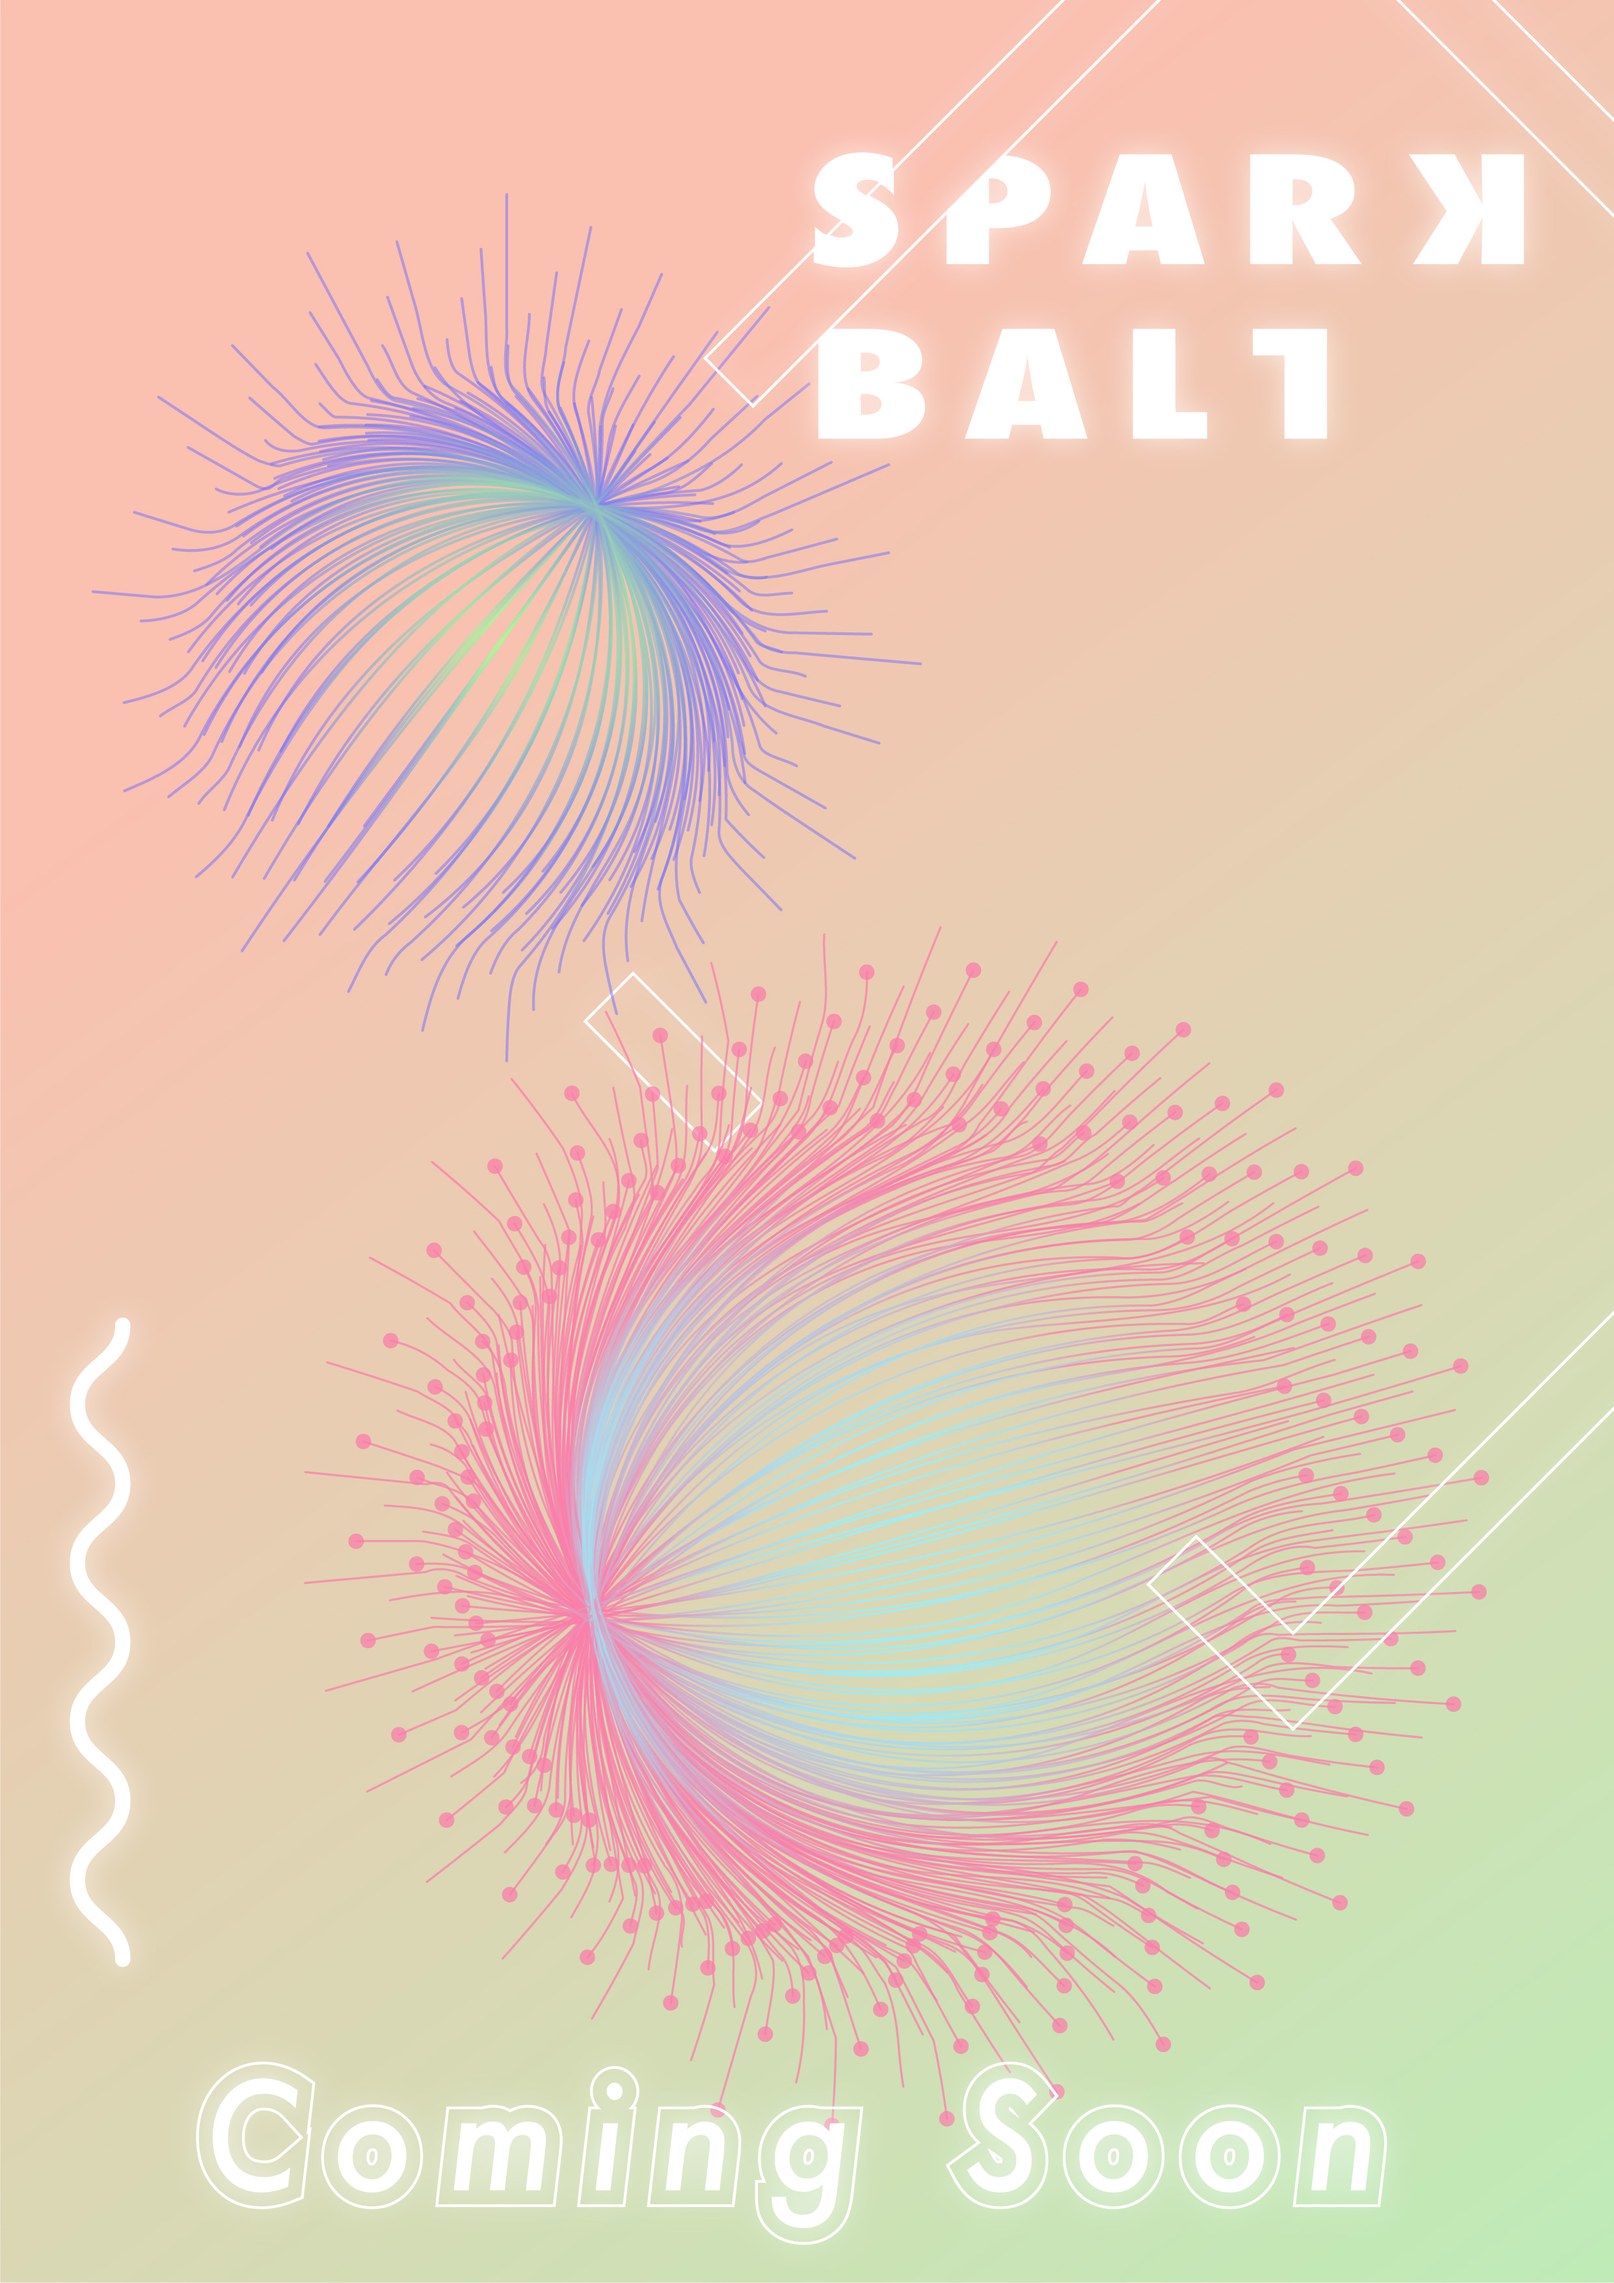
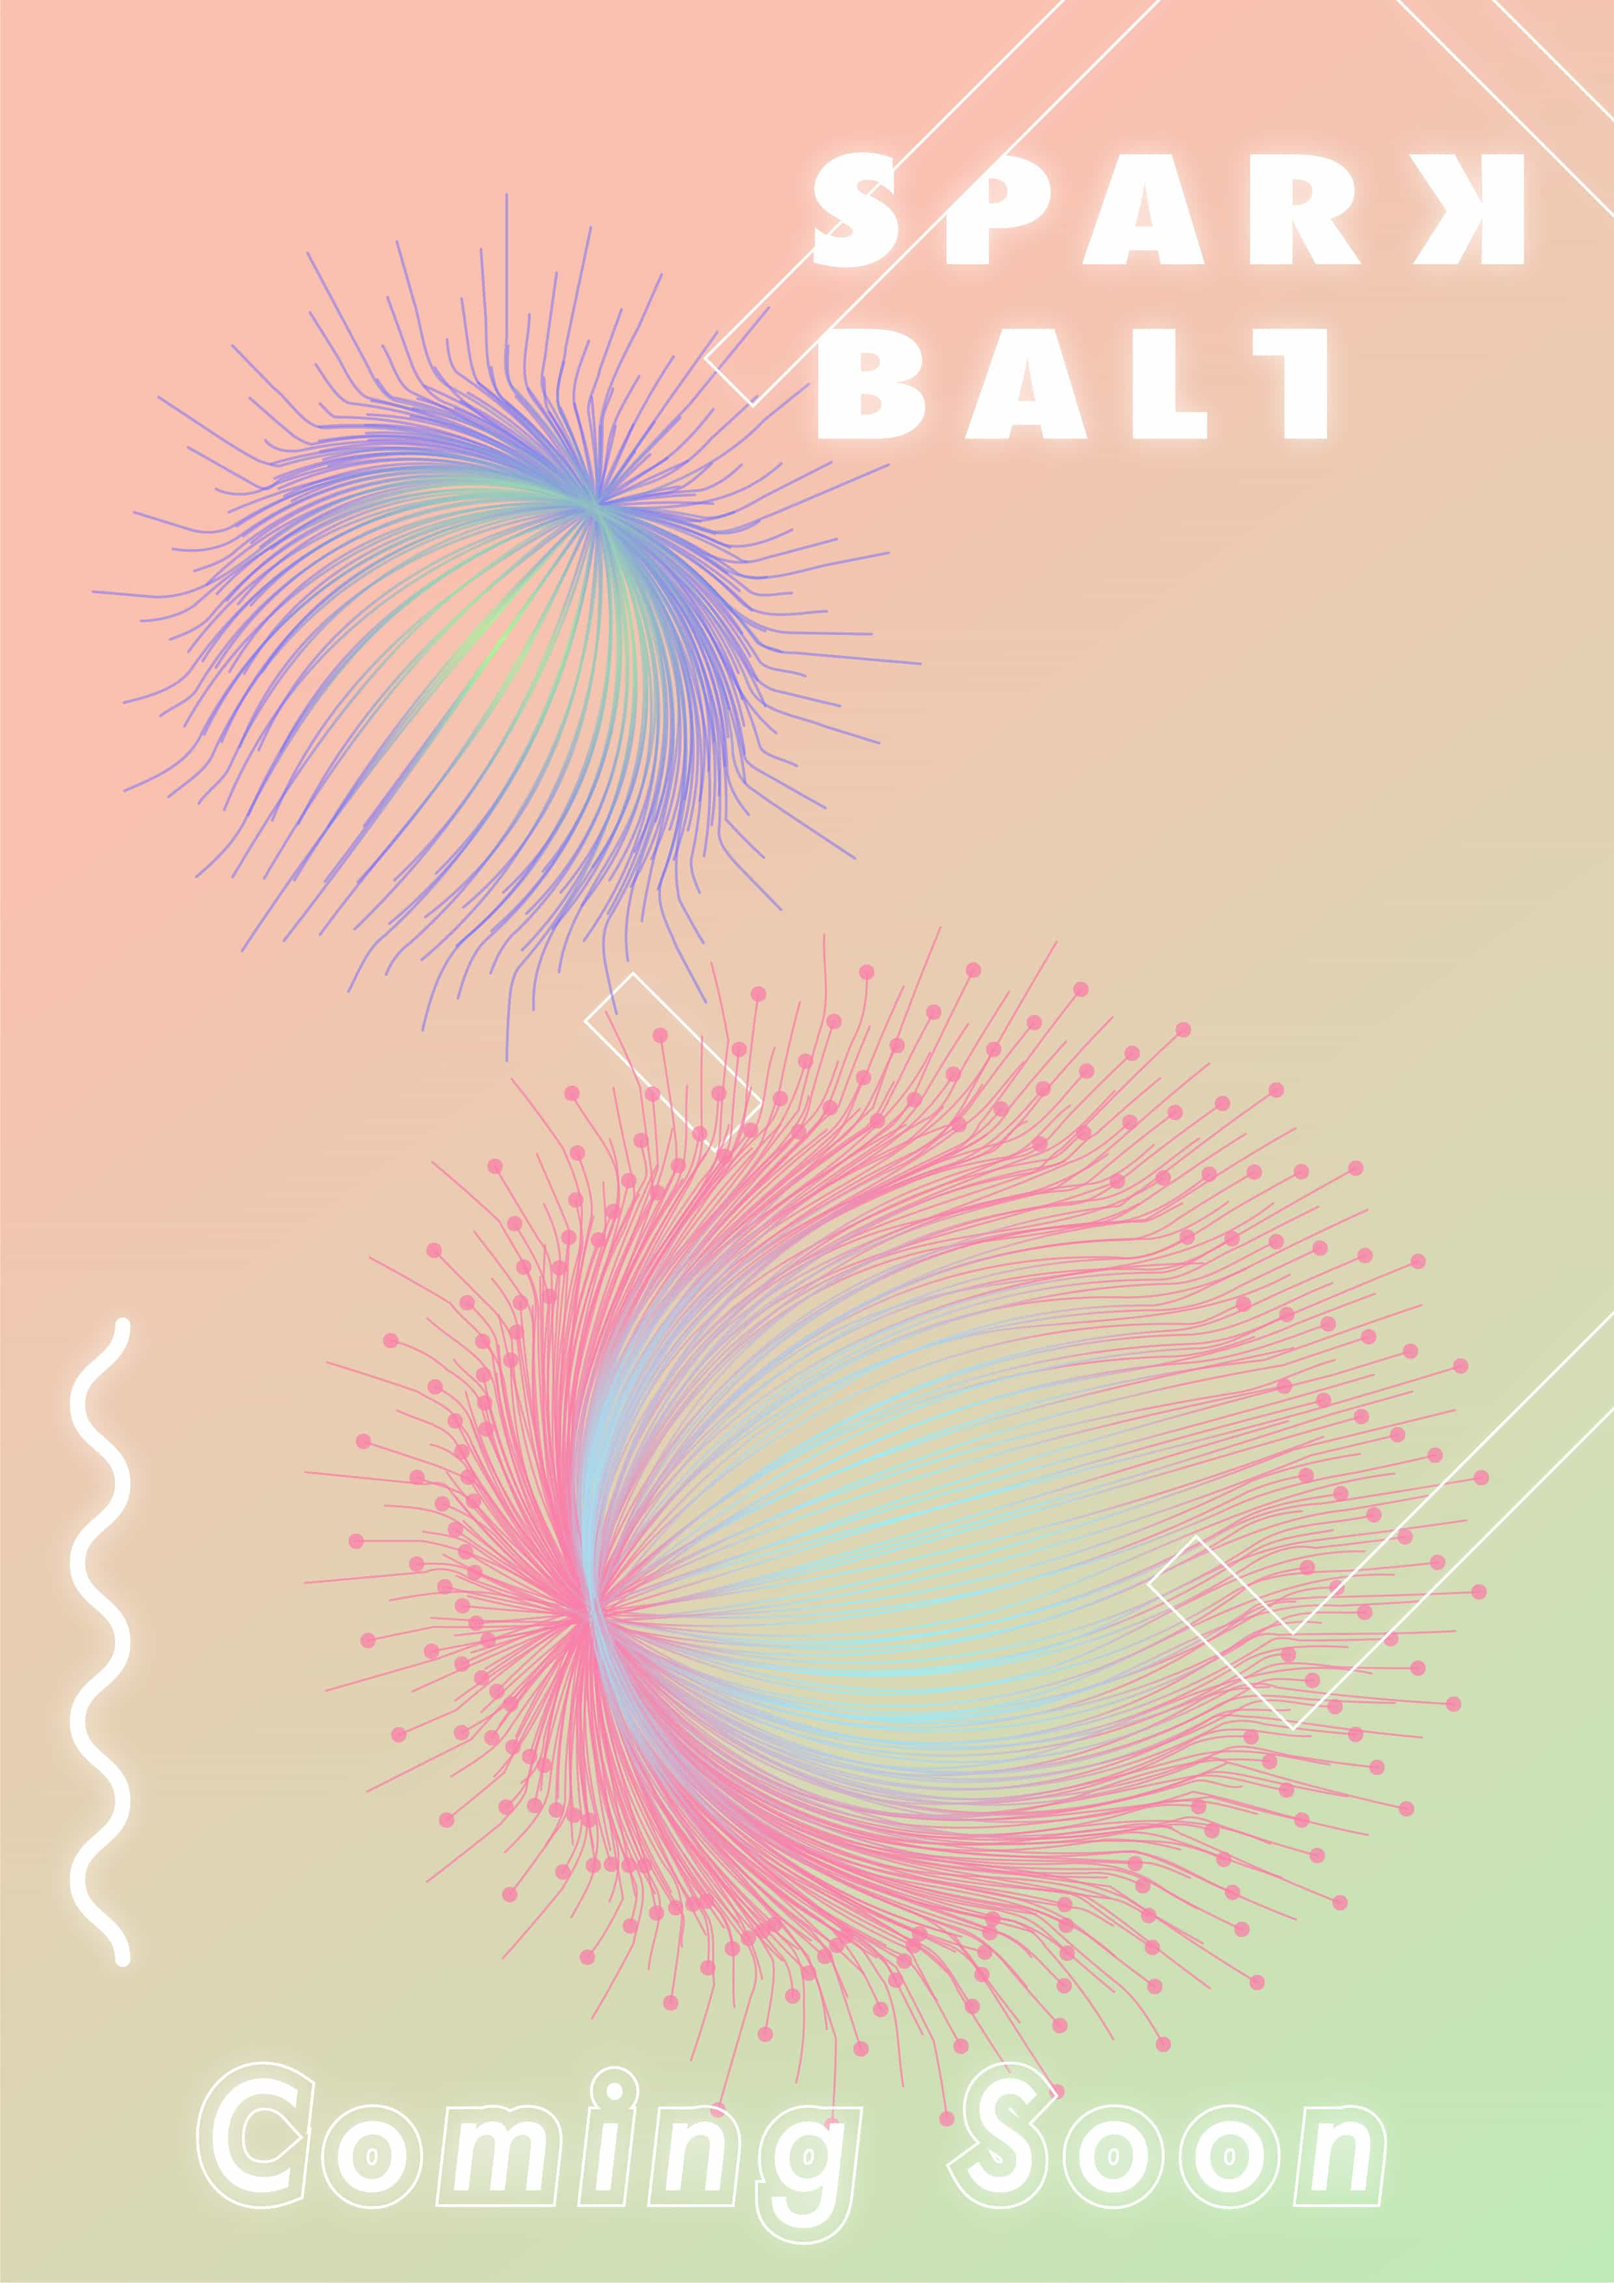
圖片大小壓縮
直接更新github資料夾中圖片
複製更改css,html連夾檔名

diff --git a/index.html b/index.html
@@ -358,28 +358,28 @@
                         企業識別與商標設計
                     </div>
                     <a href="https://www.behance.net/gallery/114881669/_" target="_blank" class="work">
-                        <img src="pic/graphic/vi_01.png" alt="企業識別-茶蔀">
+                        <img src="pic/graphic/vi_01.jpg" alt="企業識別-茶蔀">
                     </a>
                     <a href="https://www.behance.net/gallery/117584863/VI-Taipei-Childrens-Amusement-Park" target="_blank" class="work">
                          <img src="pic/graphic/vi_03.png" alt="企業識別-兒童新樂園">
                     </a>
                     <a href="https://www.behance.net/gallery/116743795/__-Do-Book" target="_blank" class="work">
-                        <img src="pic/graphic/vi_02.jpeg" alt="企業識別-讀步">
+                        <img src="pic/graphic/vi_02.jpg" alt="企業識別-讀步">
                     </a>
                     <a href="https://www.behance.net/gallery/116799987/LOGO__RABBit" target="_blank" class="work">
-                        <img src="pic/graphic/vi_04.png" alt="企業識別-兔子糖果屋">
+                        <img src="pic/graphic/vi_04.jpg" alt="企業識別-兔子糖果屋">
                     </a>
                     <a href="https://www.behance.net/gallery/116466225/LOGO_design" target="_blank" class="work">
-                        <img src="pic/graphic/vi_05.png" alt="企業識別-design">
+                        <img src="pic/graphic/vi_05.jpg" alt="企業識別-design">
                     </a>
                     <div class="work sort">
                         平面海報與EDM設計
                     </div>
                     <a href="https://www.behance.net/gallery/115330965/-Find-Mind" target="_blank" class="work">
-                        <img src="pic/graphic/po_01.png" alt="海報設計_Find Mind">
+                        <img src="pic/graphic/po_01.jpg" alt="海報設計_Find Mind">
                     </a>
                     <a href="https://www.behance.net/gallery/115330901/_" target="_blank" class="work">
-                        <img src="pic/graphic/po_02.png" alt="海報設計_最接地氣的派對夥伴">
+                        <img src="pic/graphic/po_02.jpg" alt="海報設計_最接地氣的派對夥伴">
                     </a>
                     
                     <div class="work">
@@ -387,19 +387,19 @@
                         <a href="https://compe.japandesign.ne.jp/result/toyama-poster-1-2019/">參考2019富山デザインフェア 石澤修一作品</a>
                     </div>
                     <a href="https://www.behance.net/gallery/115330709/_LOVE-MYSELF" target="_blank" class="work">
-                        <img src="pic/graphic/po_08.png" alt="">
+                        <img src="pic/graphic/po_08.jpg" alt="">
                     </a>
                     <div class="work">
-                        <img src="pic/graphic/po_09.png" alt="">
+                        <img src="pic/graphic/po_09.jpg" alt="">
                     </div> 
                     <div class="work">
                         <img src="pic/graphic/po_03.jpg" alt="">
                     </div> 
                     <a href="https://www.behance.net/gallery/118426499/EDM-" target="_blank" class="work">
-                        <img src="pic/graphic/po_05.png" alt="">
+                        <img src="pic/graphic/po_05.jpg" alt="">
                     </a>
                     <a href="https://www.behance.net/gallery/118426499/EDM-" target="_blank" class="work">
-                        <img src="pic/graphic/po_05a.png" alt="">
+                        <img src="pic/graphic/po_05a.jpg" alt="">
                     </a>
                     <div class="work">
                         <img src="pic/graphic/po_07.jpg" alt="">
@@ -447,7 +447,7 @@
                 </div>
             </div>
             <div class="main-pic">
-                <img src="pic/PR/pr.png" alt="企劃簡報設計主圖">
+                <img src="pic/PR/pr.jpg" alt="企劃簡報設計主圖">
             </div>
         </div>
 

diff --git a/css/style.css b/css/style.css
@@ -315,7 +315,7 @@ h2+h5:after{
 .template .main-pic{
 	width: 58.3%;
 	height: 40vw;
-	background-image: url(../pic/cover-wb.png);
+	background-image: url(../pic/cover-wb.jpg);
 	background-size: 100%;
 	background-position: center;
 	background-repeat: no-repeat;
@@ -354,17 +354,17 @@ h2+h5:after{
 
 
 .template .column-left .item:nth-child(1){
-	background: url(../pic/web-xmas.png) center / cover;
+	background: url(../pic/web-xmas.jpg) center / cover;
 }
 .template .column-left .item:nth-child(2){
-	background: url(../pic/web-dobook.png) center / cover;
+	background: url(../pic/web-dobook.jpg) center / cover;
 }
 .template .column-right .item:nth-child(1){
 	
-	background: url(../pic/web-chabu.png) center / cover;
+	background: url(../pic/web-chabu.jpg) center / cover;
 }
 .template .column-right .item:nth-child(2){
-	background: url(../pic/web-city.png) center / cover;
+	background: url(../pic/web-city.jpg) center / cover;
 }
 
 .template .template-works .item .btn-group{
@@ -737,7 +737,7 @@ h2+h5:after{
 .graphic-design .main-pic{
 	width: 58.3%;
 	height: 40vw;
-	background-image: url(../pic/cover-gr.png);
+	background-image: url(../pic/cover-gr.jpg);
 	background-size: 100%;
 	background-position: center;
 	background-repeat: no-repeat;
